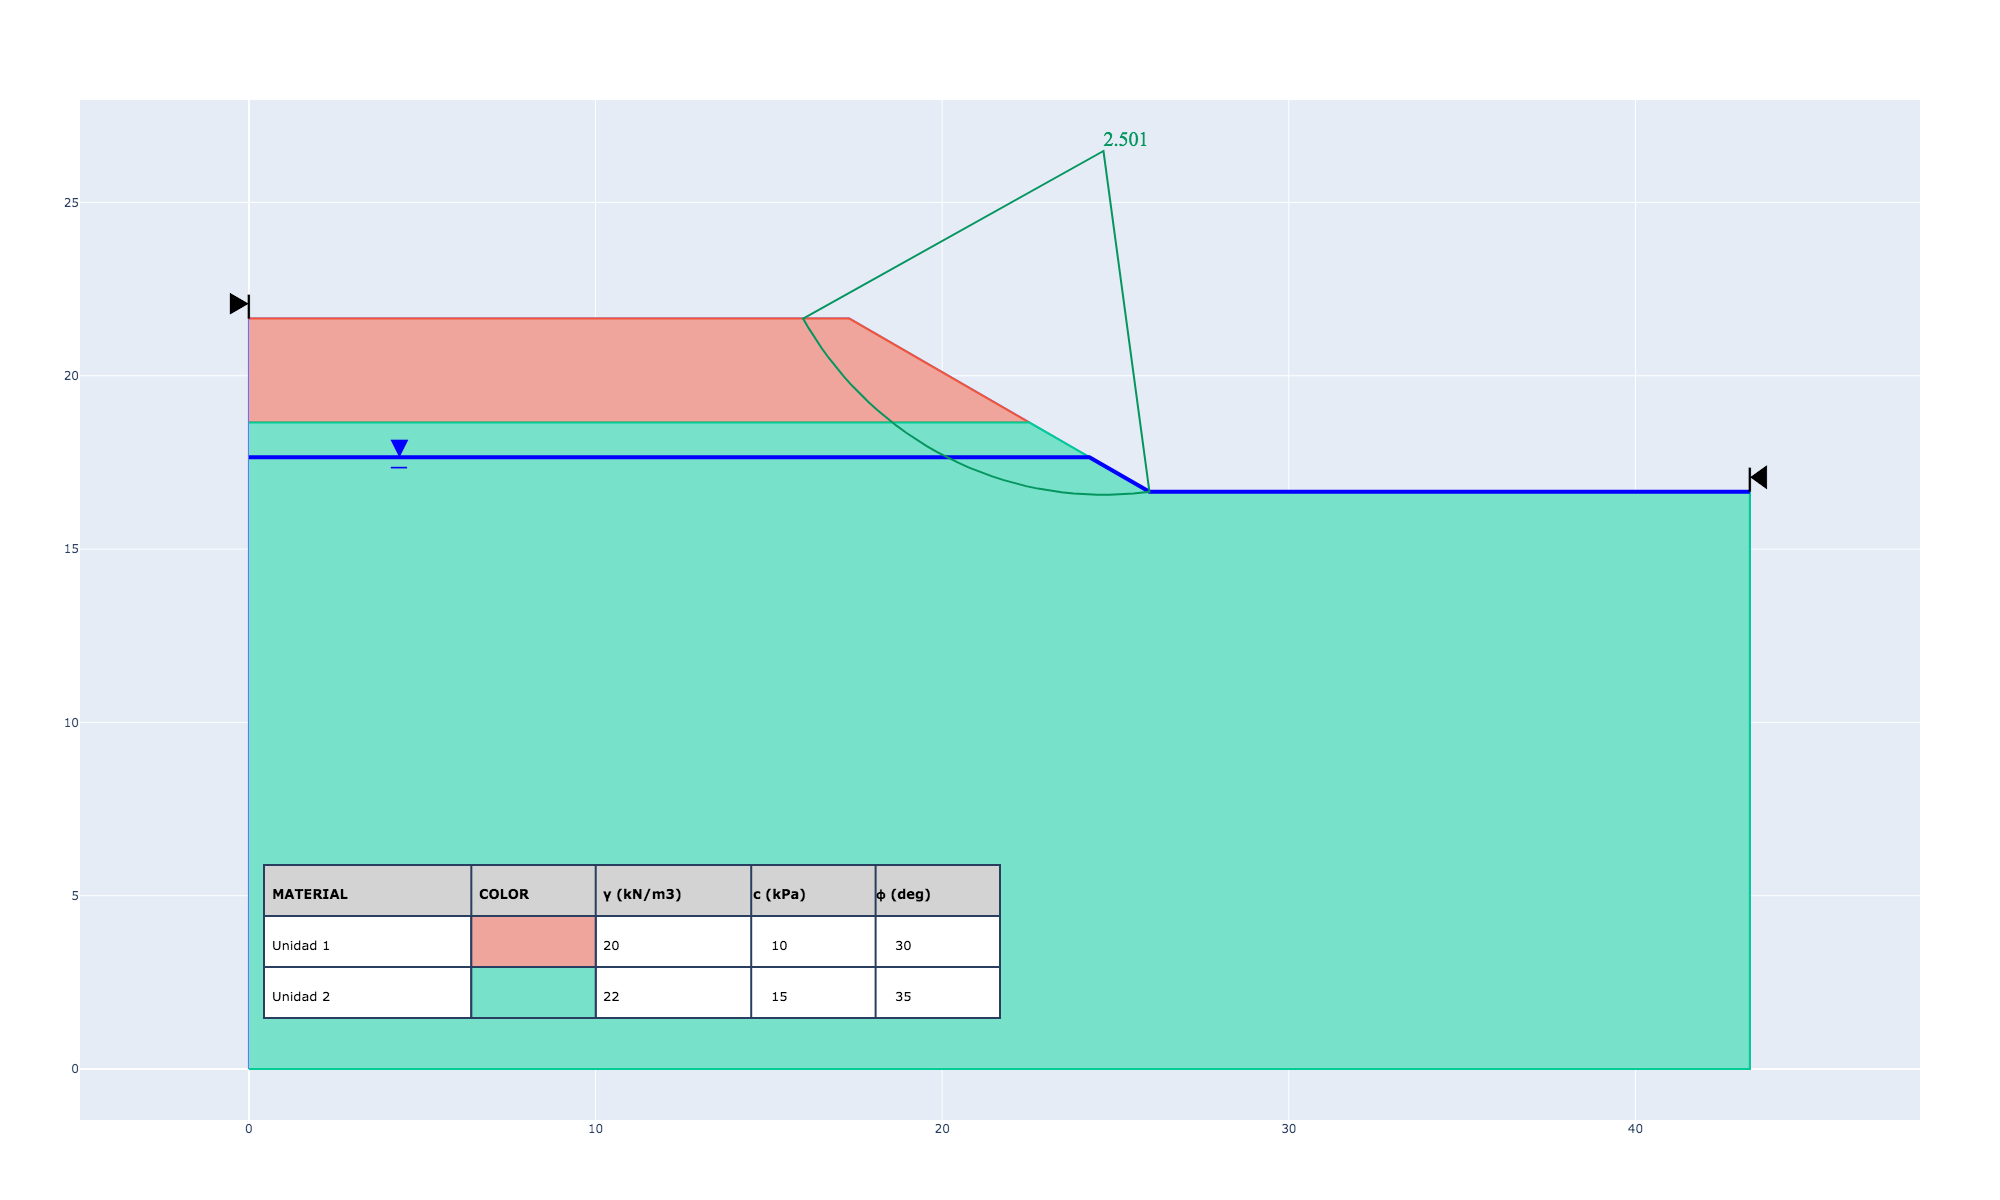
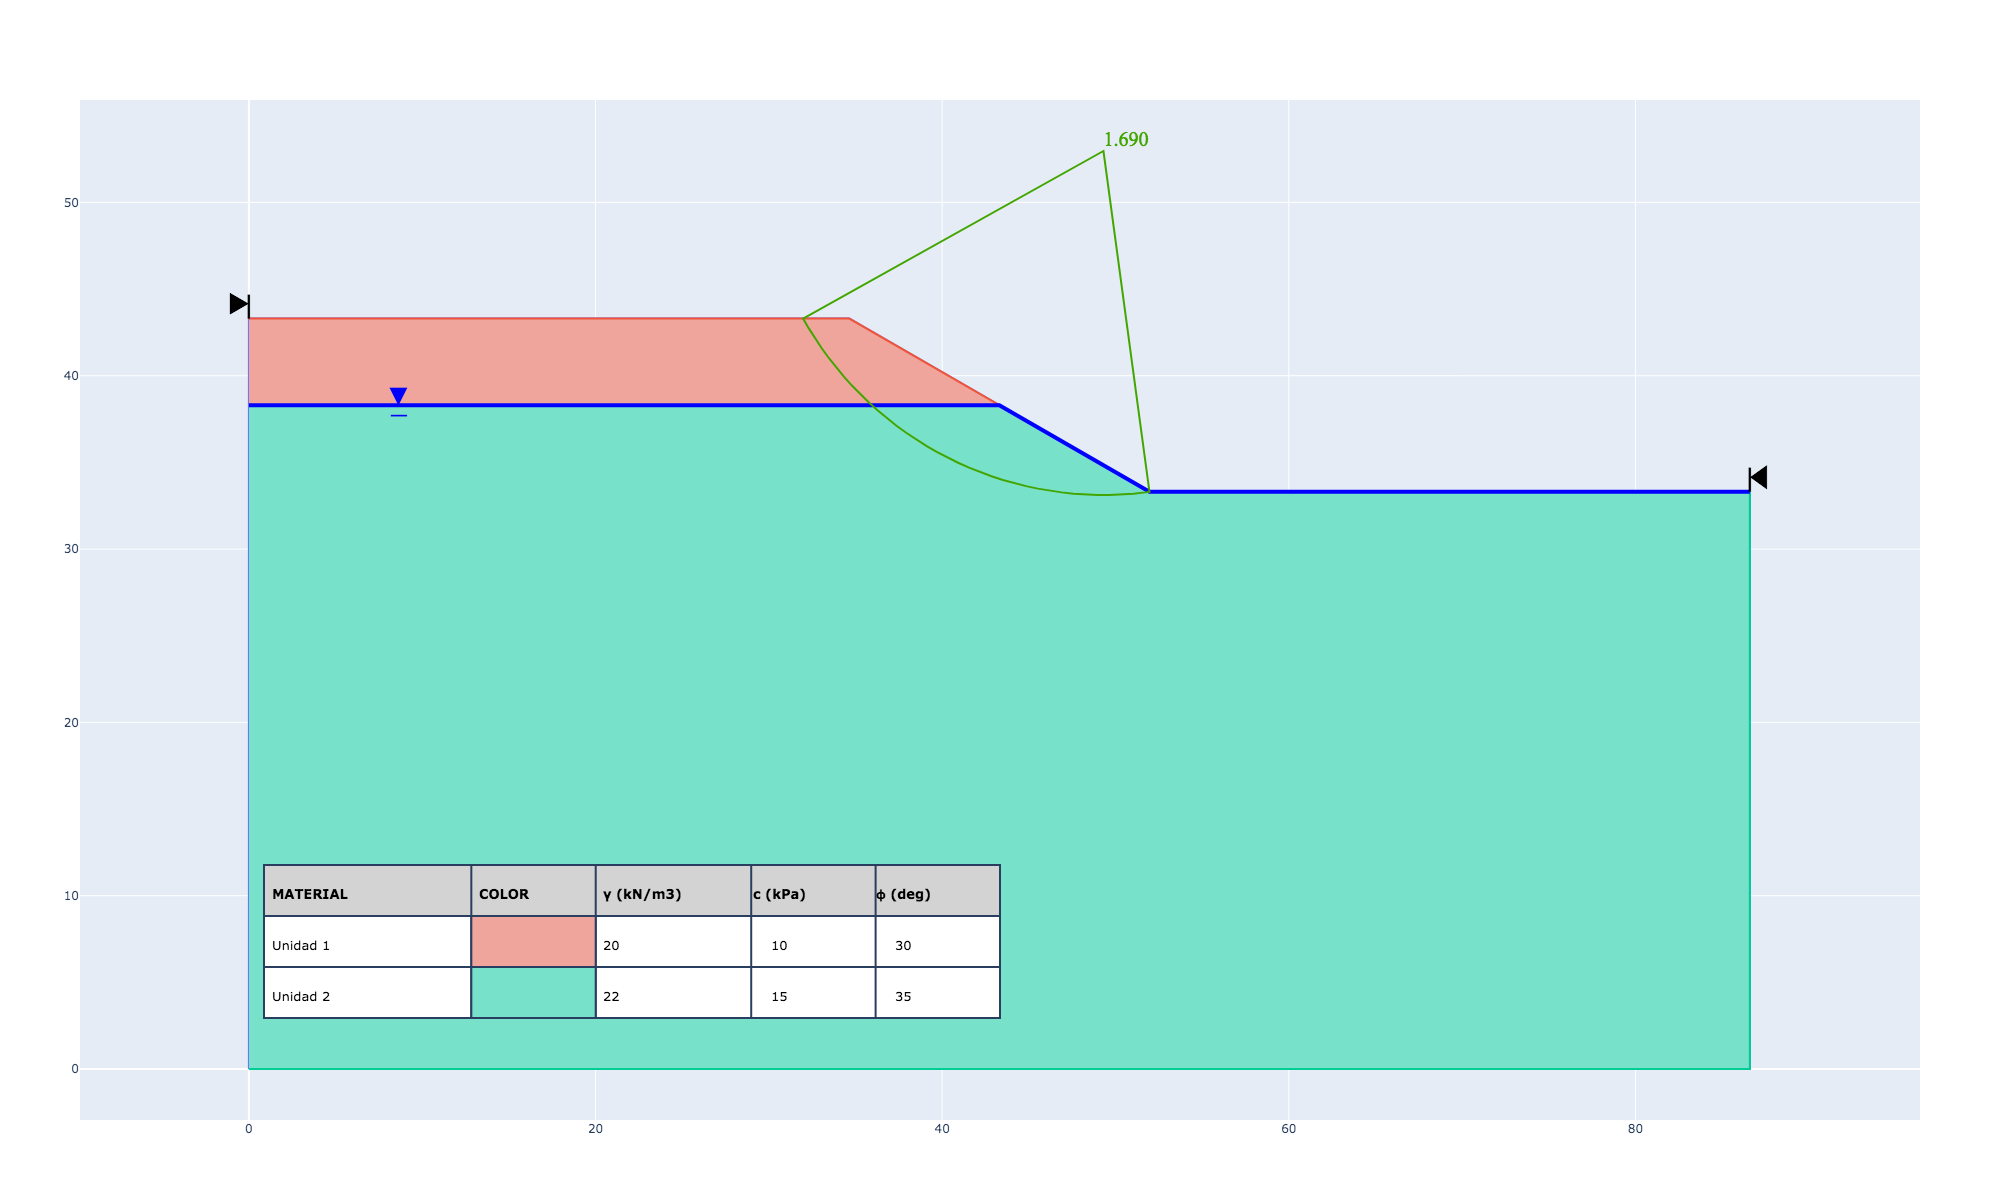
poder ejecutar en consola

Changed region(s): [[0.124, 0.3083, 0.558, 0.4008], [0.558, 0.0925, 0.589, 0.1233]]

diff --git a/tests/test_7.py b/tests/test_7.py
@@ -5,23 +5,23 @@ from pyslope import Slope, Material
 
 def main():
     # Crear un objeto Slope
-    slope = Slope(height=5, angle=30, length=None)
+    slope = Slope(height=10, angle=30, length=None)
 
     # Definir el primer material
     material1 = Material(
-        unit_weight=20,      # Peso unitario en kN/m3
+        unit_weight=20,      # Peso especifico en kN/m3
         friction_angle=30,   # Ángulo de fricción en grados
         cohesion=10,         # Cohesión en kPa
-        depth_to_bottom=3,   # Profundidad desde la parte superior del talud hasta la base de la capa de material en metro
+        depth_to_bottom=5,   # Espesor desde la parte superior del talud hasta la base de la capa de material en metros
         name="Unidad 1"      # Denominación de la unidad
     )
 
     # Definir el segundo material
     material2 = Material(
-        unit_weight=22,      # Peso unitario en kN/m3
+        unit_weight=22,      # Peso especifico en kN/m3
         friction_angle=35,   # Ángulo de fricción en grados
         cohesion=15,         # Cohesión en kPa
-        depth_to_bottom=6,   # Profundidad desde la parte superior del talud hasta la base de la capa de material en metros
+        depth_to_bottom=6,   # Espesor de la capa medida desde la superior
         name="Unidad 2"      # Denominación de la unidad
     )
 
@@ -29,7 +29,7 @@ def main():
     slope.set_materials(material1, material2)
 
     # Definir el nivel freático
-    slope.set_water_table(4)  # Profundidad del nivel freático desde la parte superior del talud en metros
+    slope.set_water_table(5)  # Profundidad del nivel freático desde la parte superior del talud en metros
 
     # Analizar el talud
     slope.analyse_slope()
@@ -39,8 +39,8 @@ def main():
     print(f"El factor de seguridad mínimo es: {min_fos}")
 
     # Generar y guardar el gráfico del talud crítico
-    fig = slope.plot_critical()
-    fig.write_image("SalidaGrafica.png")
+    #fig = slope.plot_critical()
+    #fig.write_image("SalidaGrafica.png")
 
 if __name__ == "__main__":
     main()

diff --git a/tests/Test_2.py b/tests/Test_2.py
@@ -2,35 +2,41 @@
 
 import pyslope as ps
 
-s = ps.Slope(height=15, angle=45, length=None)
+def main():
 
-ps.Slope.plot_boundary(s, material_table=False, legend=False)
 
-# Material defined with key word arguments
-m1 = ps.Material(
-    unit_weight=20,
-    friction_angle=30,
-    cohesion=10,
-    depth_to_bottom=25,
-    name="Terreno",
-    color="green"
-)
+    s = ps.Slope(height=15, angle=45, length=None)
 
-# An unlimited number of materials can be assigned at one time
-s.set_materials(m1)
+    ps.Slope.plot_boundary(s, material_table=False, legend=False)
 
-# analisys
-s.set_analysis_limits(s.get_top_coordinates()[0] - 15, s.get_bottom_coordinates()[0] + 15) # limits
+    # Material defined with key word arguments
+    m1 = ps.Material(
+        unit_weight=20,
+        friction_angle=30,
+        cohesion=10,
+        depth_to_bottom=25,
+        name="Terreno",
+        color="green"
+    )
 
-s.analyse_slope()
+    # An unlimited number of materials can be assigned at one time
+    s.set_materials(m1)
 
-fig = s.plot_boundary()  # store a plot in local variable
-fig.show()
+    # analisys
+    s.set_analysis_limits(s.get_top_coordinates()[0] - 15, s.get_bottom_coordinates()[0] + 15) # limits
 
-critical=s.plot_critical()  # plots the boundary with the critical failure of the slope
-critical.show()
+    s.analyse_slope()
 
-allPlanes=s.plot_all_planes(max_fos=1) # plots boundary with all slope failures below fos i (where i is number)
-allPlanes.show()
+    fig = s.plot_boundary()  # store a plot in local variable
+    fig.show()
 
-print("FS=%.3f"%s.get_min_FOS())
+    critical=s.plot_critical()  # plots the boundary with the critical failure of the slope
+    critical.show()
+
+    allPlanes=s.plot_all_planes(max_fos=1) # plots boundary with all slope failures below fos i (where i is number)
+    allPlanes.show()
+
+    print("FS=%.3f"%s.get_min_FOS())
+
+if __name__ == "__main__":
+    main()
